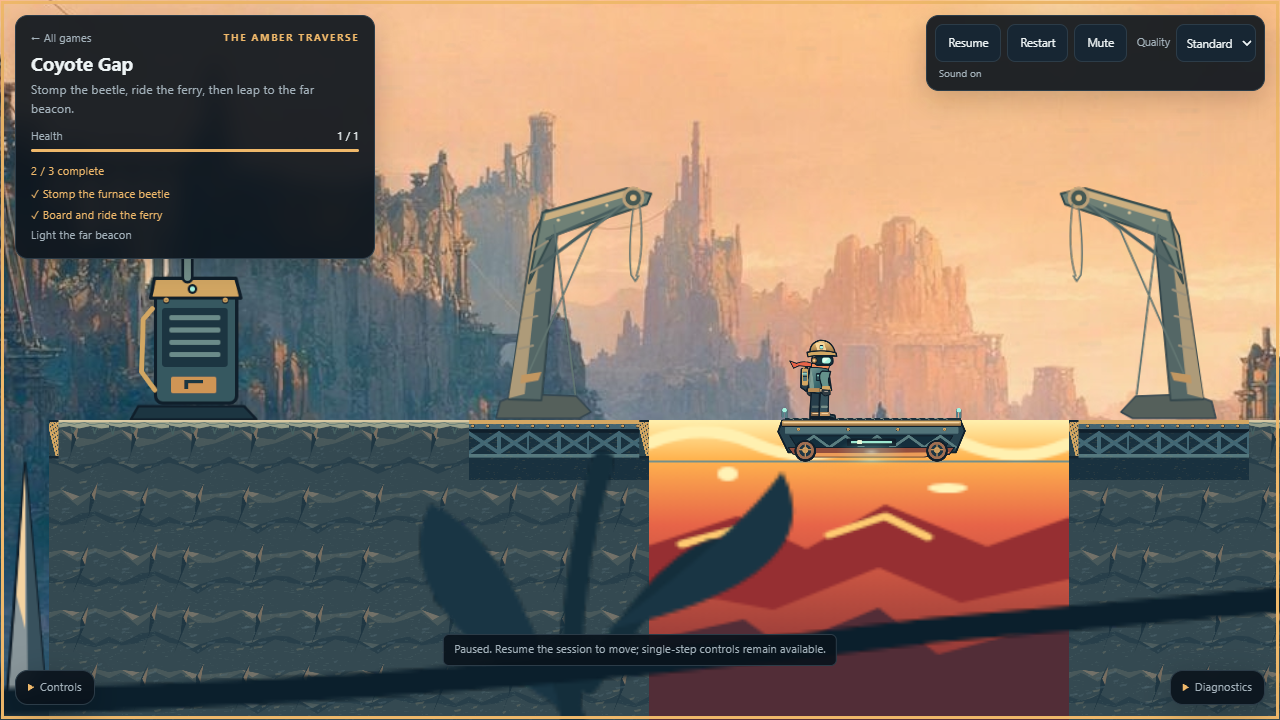
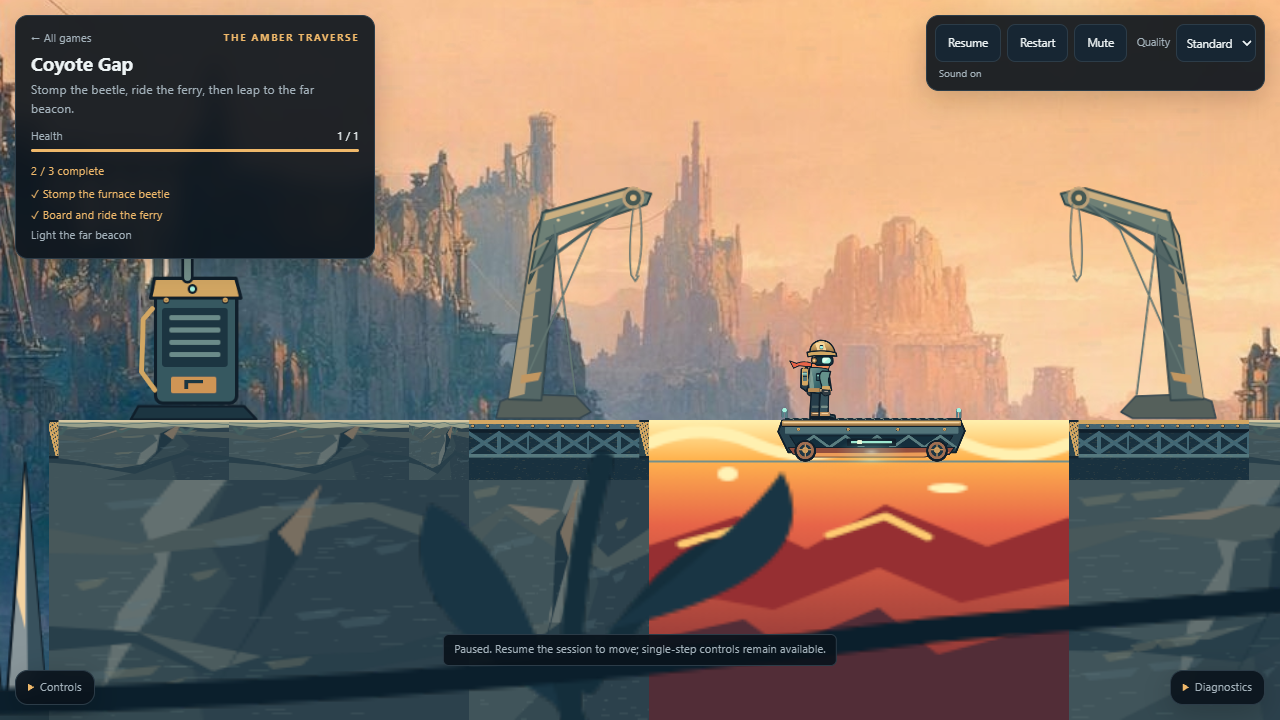
Document the tested Coyote ferry frame at tick 186
Refs #23. The caption distinguishes measured cliff variation from the deliberately periodic dock girders.

diff --git a/docs/m1/review/README.md b/docs/m1/review/README.md
@@ -1,12 +1,12 @@
 # Playfield comparison
 
-These are full frames of the three **playable games**, not renders from the asset studio. The before frames came from the [Pages deployment](https://github.com/rumukh/aegis-engine/actions/runs/37777462685) of `cc9593b37cf72b72047ac0fc076fb80283652d50`. The after build is `fe7fc32e26e3bad7e1c0f00db5df93c17e8b8bb7`. Use the games' shipped inputs from `games/{platformer,iso,fps}/play/`, stop at the indicated world tick, and use the indicated quality. All canvases are DPR 1; the backing dimensions match the viewport.
[1 lines of base64/hex data omitted]
 
-| Beat                                                                                   | Before                            | After                                                                | What changed                                                                                                                                                                                                                       |
-| -------------------------------------------------------------------------------------- | --------------------------------- | -------------------------------------------------------------------- | ---------------------------------------------------------------------------------------------------------------------------------------------------------------------------------------------------------------------------------- |
-| **Coyote Gap** — ferry, tick 186, 1280×720, Standard; world `cbfa4f6ad2c9fd79`         | [Before](coyote-before.png)       | [After](coyote-after.png)                                            | Open cable davits replace the heavy cross-braced frames. The cliff faces have varied fractures and the carriage catches amber light underneath; the landing lip and lava boundary have not moved.                                  |
-| **Server Vault** — overview, tick 0, 1280×800, Standard; world `b6be64a6b54932fe`      | [Before](vault-before.png)        | [After](vault-after.png)                                             | The small HUD keeps health and the next objective visible. The key console has a rectangular key sign; the uplink has a diamond arrow. Both symbols are part of the pickable objective meshes.                                     |
-| **Server Vault** — portrait, tick 0, 390×844, Low, reduced motion                      | [Before](vault-narrow-before.png) | [Overview](vault-narrow-after.png) · [Focus](vault-narrow-focus.png) | The next objective expands for the full brief. The paused notice no longer covers Restart or Mute. Focus enlarges the playfield while the operator, key and uplink remain on screen.                                               |
-| **Sector Breach** — K-09 fight, tick 177, 1280×720, Standard; world `c88635a54853d3f7` | [Before](breach-before.png)       | [After](breach-after.png)                                            | The sentry’s amber armor, shoulder caps and three-light optic stand apart from the unchanged cabinets and extraction sign. A hit flashes its breastplate rather than the whole figure. The weapon keeps its foreground depth pass. |
+| Beat                                                                                   | Before                            | After                                                                | What changed                                                                                                                                                                                                                                        |
+| -------------------------------------------------------------------------------------- | --------------------------------- | -------------------------------------------------------------------- | --------------------------------------------------------------------------------------------------------------------------------------------------------------------------------------------------------------------------------------------------- |
+| **Coyote Gap** — ferry, tick 186, 1280×720, Standard; world `cbfa4f6ad2c9fd79`         | [Before](coyote-before.png)       | [After](coyote-after.png)                                            | Open cable davits replace the cross-braced frames. The cliff-face crops no longer show the old one-cell repeat; dock girders still repeat at that pitch. Amber light catches the carriage underside. The landing lips remain at x=20 and x=27, y=5. |
+| **Server Vault** — overview, tick 0, 1280×800, Standard; world `b6be64a6b54932fe`      | [Before](vault-before.png)        | [After](vault-after.png)                                             | The small HUD keeps health and the next objective visible. The key console has a rectangular key sign; the uplink has a diamond arrow. Both symbols are part of the pickable objective meshes.                                                      |
+| **Server Vault** — portrait, tick 0, 390×844, Low, reduced motion                      | [Before](vault-narrow-before.png) | [Overview](vault-narrow-after.png) · [Focus](vault-narrow-focus.png) | The next objective expands for the full brief. The paused notice no longer covers Restart or Mute. Focus enlarges the playfield while the operator, key and uplink remain on screen.                                                                |
+| **Sector Breach** — K-09 fight, tick 177, 1280×720, Standard; world `c88635a54853d3f7` | [Before](breach-before.png)       | [After](breach-after.png)                                            | The sentry’s amber armor, shoulder caps and three-light optic stand apart from the unchanged cabinets and extraction sign. A hit flashes its breastplate rather than the whole figure. The weapon keeps its foreground depth pass.                  |
 
 In the 390×844 Vault check, one projected cell step increased from **18.11 to 29.80 px** in focus view. In both the live player and the prefixed static export, the console and uplink remained visible and their markers picked cells `(9,1)` and `(4,7)` in both views. This proves the picking path; activation and mission outcomes are checked separately by the shipped routes. These matched stills are not frame-rate measurements or substitutes for a first-time player's feedback.
